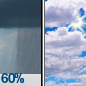
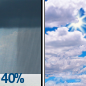
wire: 2026-10-10 RSA-1010-WIRE-111 + first sports/weather siblings

Changed region(s): [[0.0, 0.8372, 0.093, 0.9767]]

diff --git a/wire.html b/wire.html
@@ -5,16 +5,16 @@
   <meta name="viewport" content="width=device-width, initial-scale=1.0">
   <script>(function(){try{var s=localStorage.getItem('usmc-theme')||localStorage.getItem('theme');if(s!=='light')document.documentElement.setAttribute('data-theme','dark');}catch(e){}})();</script>
   <title>RESOLUTE Wire — Curated News for Citizens | U.S.M.C. Ministries</title>
-  <meta name="description" content="National and technology reporting for the Saturday morning board.">
+  <meta name="description" content="National and technology reporting for the Saturday evening board.">
   <link rel="canonical" href="https://usmcmin.com/wire.html">
   <meta property="og:site_name" content="RESOLUTE Wire">
-  <meta property="og:title" content="Pacific Command hosted Micronesia&#x27;s president at Camp Smith — RESOLUTE Wire">
-  <meta name="twitter:title" content="Pacific Command hosted Micronesia&#x27;s president at Camp Smith — RESOLUTE Wire">
-  <meta property="og:description" content="National and technology reporting for the Saturday morning board.">
+  <meta property="og:title" content="Carrier Air Wing 9 closed a 10-month combat deployment aboard Abraham Lincoln — RESOLUTE Wire">
+  <meta name="twitter:title" content="Carrier Air Wing 9 closed a 10-month combat deployment aboard Abraham Lincoln — RESOLUTE Wire">
+  <meta property="og:description" content="National and technology reporting for the Saturday evening board.">
   <meta property="og:type" content="website">
   <meta property="og:url" content="https://usmcmin.com/wire.html">
-  <meta property="og:image" content="https://usmcmin.com/assets/og/wire-dvids-10003496-pacom-fsm-smith-1200x630.jpg">
-  <meta name="twitter:image" content="https://usmcmin.com/assets/og/wire-dvids-10003496-pacom-fsm-smith-1200x630.jpg">
+  <meta property="og:image" content="https://usmcmin.com/assets/og/wire-dvids-9996294-cvw9-lincoln-f35-1200x630.jpg">
+  <meta name="twitter:image" content="https://usmcmin.com/assets/og/wire-dvids-9996294-cvw9-lincoln-f35-1200x630.jpg">
   <meta property="og:image:width" content="1200">
   <meta property="og:image:height" content="630">
   <meta name="twitter:image:width" content="1200">
@@ -134,19 +134,19 @@
     </div>
     <header class="mast" id="top">
       <h1>RESOLUTE <em>Wire</em></h1>
-      <p class="dek">National and technology reporting for the Saturday morning board.</p>
-      <div class="meta">Saturday, October 10, 2026 · AM edition · Rush Sullivan</div>
+      <p class="dek">National and technology reporting for the Saturday evening board.</p>
+      <div class="meta">Saturday, October 10, 2026 · PM edition · Rush Sullivan</div>
     </header>
     <article class="hero">
       <div class="hero-media">
-        <img src="assets/wire/dvids-10003496-pacom-fsm-smith-1000w.jpg" alt="">
-        <div class="hero-credit">Staff Sgt. Angel Heraldez · DVIDS 10003496 · Public domain · Lt. Gen. George B. Rowell hosts President Wesley W. Simina at Camp H.M. Smith, Hawaii. Photo taken Oct. 9, 2026.</div>
+        <img src="assets/wire/dvids-9996294-cvw9-lincoln-f35-1000w.jpg" alt="">
+        <div class="hero-credit">Mass Communication Specialist 3rd Class Angel Campbell · DVIDS 9996294 · Public domain · An F-35C from VMFA-314 prepares to launch from USS Abraham Lincoln in the U.S. 3rd Fleet. Photo taken Oct. 1, 2026.</div>
       </div>
       <div class="hero-body">
         <span class="chip">DVIDS</span>
-        <h2><a href="https://www.dvidshub.net/news/576768/us-pacific-command-hosts-fsm-president-regional-security-discussions" target="_blank" rel="noopener">Pacific Command hosted Micronesia&#x27;s president at Camp Smith</a></h2>
-        <p class="insight">Lt. Gen. George B. Rowell, deputy commander of U.S. Pacific Command, hosted Federated States of Micronesia President Wesley W. Simina at Camp H.M. Smith on Oct. 9. The DVIDS release says the two sides discussed maritime security, cybersecurity, and long-range threats in the Indo-Pacific, and the work of strengthening deterrence under the Compact of Free Association. No new treaty or deployment order is in the release.</p>
-        <div class="src">DVIDS · <a href="https://www.dvidshub.net/news/576768/us-pacific-command-hosts-fsm-president-regional-security-discussions" target="_blank" rel="noopener">Read source →</a></div>
+        <h2><a href="https://www.dvidshub.net/news/576750/carrier-air-wing-9-completes-10-month-combat-deployment" target="_blank" rel="noopener">Carrier Air Wing 9 closed a 10-month combat deployment aboard Abraham Lincoln</a></h2>
+        <p class="insight">DVIDS reported that Carrier Air Wing 9 concluded the deployment aboard USS Abraham Lincoln on Oct. 8, after embarking Nov. 21, 2025. The release says the wing flew 14,037 sorties and 31,460 flight hours, and that Operation Epic Fury, ordered Feb. 28, ran 38 days before an early April ceasefire. It says the wing expended 1,499 precision weapons, more than 1.37 million pounds of ordnance, against U.S. Central Command targets. Capt. J.W. Stigi, the wing commander, said the force destroyed Iran&#x27;s conventional Navy and secured maritime chokepoints. Destroyers Spruance and Michael Murphy remain underway in the 7th and 5th Fleets. The still shows an F-35C from Marine Fighter Attack Squadron 314 on the flight deck Oct. 1, while the ship was still in the 3rd Fleet.</p>
+        <div class="src">DVIDS · <a href="https://www.dvidshub.net/news/576750/carrier-air-wing-9-completes-10-month-combat-deployment" target="_blank" rel="noopener">Read source →</a></div>
       </div>
     </article>
     <section class="rails" aria-label="Channel rails">
@@ -154,17 +154,17 @@
         <h3>Political</h3>
         <article class="item no-media">
           <div>
-            <h4><a href="https://www.americanreformer.org/p/having-it-both-ways" target="_blank" rel="noopener">American Reformer says Cornell&#x27;s sex scandal is a failure of consent rules</a></h4>
-            <p>Thursday&#x27;s essay says the facts released so far, including a signed statement from the woman, describe consensual conduct, not rape. The writer argues Cornell encourages sexual liberation and then punishes students when the results become a public problem. Consent, the piece says, is too thin a rule to govern relations between young men and women. It is an argument about university policy, not a court filing.</p>
-            <div class="who">American Reformer</div>
+            <h4><a href="https://www.heritage.org/american-history/commentary/columbus-day-question-have-we-finally-stopped-distorting-our-past" target="_blank" rel="noopener">Heritage says restoring the Columbus fountain is a test of how the country treats its past</a></h4>
+            <p>Friday&#x27;s commentary points to the Christopher Columbus fountain in front of Union Station in Washington, left in disrepair, as a case of history treated as something to neglect. The writer says restoring public artwork can put life back into a culture, and that the fountain is a reminder of the country&#x27;s tie to the old world. It is a commentary on public memory, not a restoration contract.</p>
+            <div class="who">Heritage Foundation</div>
           </div>
           
         </article>
         <article class="item no-media">
           <div>
-            <h4><a href="https://lawliberty.org/the-most-american-statue-in-europe/" target="_blank" rel="noopener">Law &amp; Liberty says a forgotten Washington statue in Budapest was paid for by immigrants</a></h4>
-            <p>Friday&#x27;s essay says the George Washington statue beside a lake in Budapest&#x27;s City Park was commissioned and financed by Hungarian immigrants in the United States, not by a treaty between governments. The Paris and London statues were diplomatic gifts. This one was raised by people who had left Hungary. The writer puts the story against the current argument over immigration and assimilation, on the 250th anniversary of the country&#x27;s birth. It is an essay, not a bill.</p>
-            <div class="who">Law &amp; Liberty</div>
+            <h4><a href="https://www.americanreformer.org/p/ohio-is-a-place-not-an-idea" target="_blank" rel="noopener">American Reformer says Ohio is a place, not a slogan</a></h4>
+            <p>Friday&#x27;s essay argues that national commentary flattens Ohio into a symbol and misses the practical judgments people there actually make. The writer wants fewer generalizations and more attention to how a particular place works. It is an argument about political writing, not a campaign filing.</p>
+            <div class="who">American Reformer</div>
           </div>
           
         </article>
@@ -173,16 +173,16 @@
         <h3>Tech / AI</h3>
         <article class="item no-media">
           <div>
-            <h4><a href="https://www.defensenews.com/missile-defense/2026/10/09/pentagon-raytheon-sign-63b-deal-to-replenish-us-missile-interceptor-supply/" target="_blank" rel="noopener">The Pentagon signed a $6.3 billion deal to replenish SM-3 interceptors</a></h4>
-            <p>Defense News reported Friday that the Pentagon signed a five-year contract with Raytheon, plus two option years, for a continuous supply of Standard Missile-3 Block IB interceptors, built mainly in Tucson and Huntsville. Raytheon President Phil Jasper said the missile has been used in combat and the contract is meant to refill inventories. The Block IB is a hit-to-kill interceptor for short- and intermediate-range ballistic missiles. Navy destroyers first fired it in combat in 2024 against Iranian missiles aimed at Israel. Delivery totals are not in the story.</p>
+            <h4><a href="https://www.defensenews.com/industry/techwatch/2026/10/10/lockheed-martin-unveils-pac-3-edge-interceptor-designed-to-counter-hypersonic-threats/" target="_blank" rel="noopener">Lockheed unveiled a PAC-3 variant aimed at hypersonic threats</a></h4>
+            <p>Defense News, citing Reuters, reported Saturday that Lockheed Martin unveiled PAC-3 Edge, an interceptor meant to counter hypersonic and advanced missile threats at longer ranges and higher altitudes. The company said it adds a new seeker, upgraded flight controls, and a multi-pulse rocket motor from Northrop Grumman. Tim Cahill, president of missiles and fire control, told Reuters the cost should be about that of the existing PAC-3 MSE, and that full production would run about 2,000 a year. The Army awarded Lockheed a contract worth up to $58.6 billion in July to ramp up current PAC-3 production. This is a company unveiling, not a signed order for the new variant.</p>
             <div class="who">Defense News</div>
           </div>
           
         </article>
         <article class="item no-media">
           <div>
-            <h4><a href="https://www.dvidshub.net/image/10003371/vmfa-231-activation-ceremony" target="_blank" rel="noopener">The Marine Corps reactivated its oldest flying squadron at Cherry Point</a></h4>
-            <p>A DVIDS still from Oct. 9 shows Sgt. Maj. Ricardo L. Santos marching the colors at an activation ceremony for Marine Fighter Attack Squadron 231 at Marine Corps Air Station Cherry Point. The caption says the squadron was first commissioned in 1919, and that the ceremony marked a step in 2nd Marine Aircraft Wing&#x27;s aviation modernization. The photo is the official record posted so far. A separate news release with the aircraft type was not on the page.</p>
+            <h4><a href="https://www.dvidshub.net/news/576497/fulfilling-our-nations-promise-record-250-identifications-fiscal-year-2026" target="_blank" rel="noopener">The Defense Department identified 250 missing service members in fiscal 2026</a></h4>
+            <p>A DVIDS release from Washington says the Department of War identified 250 service members in fiscal year 2026, a record, under the accounting mission that treats no fallen comrade as left behind. The release is the official count posted this week. It does not list the individual cases.</p>
             <div class="who">DVIDS</div>
           </div>
           
@@ -192,17 +192,17 @@
         <h3>Culture</h3>
         <article class="item no-media">
           <div>
-            <h4><a href="https://firstthings.com/betting-against-your-neighbor/" target="_blank" rel="noopener">First Things says phone gambling trains a man to bet against his neighbor</a></h4>
-            <p>Joshua Topham&#x27;s Friday essay starts from a semiannual conference of The Church of Jesus Christ of Latter-day Saints, where D. Todd Christofferson said gambling is morally wrong and asked members to leave it. The piece names three markets feeding the habit: sports betting, casino-style games, and prediction markets, all now on a phone. Christofferson&#x27;s point, as Topham reads it, is not only the loss of money. It is what the habit does to how a man sees the person next to him.</p>
-            <div class="who">First Things</div>
+            <h4><a href="https://www.heritage.org/education/commentary/stop-writing-blank-checks-campuses-protect-hate" target="_blank" rel="noopener">Heritage says a $3 billion gift does not fix a campus that protects hate</a></h4>
+            <p>Friday&#x27;s commentary says Ken Griffin&#x27;s $3 billion gift to Carnegie Mellon, most of it for a new Miami campus, is the largest single gift in American higher education. The writer says cash was not the school&#x27;s problem. Nearly a month after an associate&#x27;s conduct drew public attention, the piece argues federal and donor money still flows to campuses that shelter antisemitism. It is an argument about funding conditions, not a new statute.</p>
+            <div class="who">Heritage Foundation</div>
           </div>
           
         </article>
         <article class="item no-media">
           <div>
-            <h4><a href="https://wng.org/articles/the-spirituality-of-silence-1791390725" target="_blank" rel="noopener">WORLD reviews John Mark Comer&#x27;s book on silence</a></h4>
-            <p>WORLD&#x27;s Wednesday review of Into the Quiet says Comer is doing with noise what his earlier books did with hurry: naming a cultural habit and asking Christians to step out of it. The review quotes him saying this is the first generation that can banish quiet from ordinary life. He prescribes solitude, silence, and stillness. The book is 304 pages from WaterBrook. It is a review, not a new study.</p>
-            <div class="who">WORLD News Group</div>
+            <h4><a href="https://truthscript.com/theology/the-unsupervised-woman-and-the-limits-of-reactionary-traditionalism/" target="_blank" rel="noopener">TruthScript says the fight over the unsupervised woman misses Christian vocation</a></h4>
+            <p>Thursday&#x27;s essay says the latest evangelical argument over a figure called the unsupervised woman asks the wrong question. The writer argues the dispute treats women&#x27;s work as a supervision problem and skips what Christian vocation actually requires of women and men. It is a theological argument, not a church court ruling.</p>
+            <div class="who">TruthScript</div>
           </div>
           
         </article>
@@ -218,7 +218,7 @@
     </section>
     <section class="watch">
       <h3>Watch</h3>
-      <ul><li><a href="https://news.usni.org/2026/10/09/october-sees-near-daily-strikes-on-ships-in-hormuz" target="_blank" rel="noopener">Ships in the Strait of Hormuz have been hit nearly every day this month</a> </li><li><a href="https://news.usni.org/2026/10/08/4-marines-receiving-medical-care-after-osprey-mishap" target="_blank" rel="noopener">Four Marines are receiving medical care after an Osprey mishap in North Carolina</a> </li></ul>
+      <ul><li><a href="https://news.usni.org/2026/10/09/october-sees-near-daily-strikes-on-ships-in-hormuz" target="_blank" rel="noopener">Ships in the Strait of Hormuz have been hit nearly every day this month</a> </li><li><a href="https://news.usni.org/2026/10/09/philippine-and-chinese-incidents-spike-in-south-china-sea-luzon-strait" target="_blank" rel="noopener">Philippine and Chinese incidents rose in the South China Sea and the Luzon Strait</a> </li></ul>
     </section>
     <section class="dock">
       <a href="sports.html"><div class="k">Texas desk</div><div class="t">Sports</div><div class="d">Texans, Astros, Rockets — character and the score.</div></a>

diff --git a/weather.html b/weather.html
@@ -131,7 +131,7 @@
     <header class="mast" id="top">
       <h1>RESOLUTE <em>Weather</em></h1>
       <p class="dek">Fredericksburg, Virginia — National Weather Service. Readiness, not climate talk.</p>
-      <div class="meta">Saturday, October 10, 2026 · AM edition</div>
+      <div class="meta">Saturday, October 10, 2026 · PM edition</div>
     </header>
     <article class="hero">
       <div class="hero-media">
@@ -140,16 +140,16 @@
       </div>
       <div class="hero-body">
         <span class="chip">NWS / Readiness</span>
-        <h2>No active NWS alerts on the Fredericksburg point. Mostly cloudy today, high near 71. Rain starts after 8 tonight.</h2>
-        <p class="insight">NWS lists no active alert for the Fredericksburg forecast point. Today is mostly cloudy, with a high near 71 and a northeast wind of 1 to 7 mph. Rain showers begin after 8 p.m., with a low around 60, gusts as high as 20 mph, and a half to three quarters of an inch possible. Sunday is rain, then thunderstorms, a high near 72, and 1 to 2 inches possible. Monday morning still has a chance of showers, then partly sunny, near 76.</p>
+        <h2>No active NWS alerts on the Fredericksburg point. Cloudy this afternoon, high near 70. Rain starts after 9 tonight.</h2>
+        <p class="insight">NWS lists no active alert for the Fredericksburg forecast point. This afternoon is cloudy, with a high near 70 and an east wind around 7 mph. Rain showers begin between 9 p.m. and 5 a.m., then thunderstorms, with a low around 61, gusts as high as 20 mph, and three quarters of an inch to an inch possible. Sunday is showers and thunderstorms, a high near 73, and 1 to 2 inches possible. Monday morning still has a chance of showers, then partly sunny, near 74.</p>
         <div class="src">Alerts: No watch or warning is up. · <a href="https://forecast.weather.gov/MapClick.php?lat=38.3032&amp;lon=-77.4605" target="_blank" rel="noopener">NWS forecast →</a></div>
-        <ul class="actions"><li>No active watches or warnings on the city point</li><li>Mostly cloudy today, high near 71</li><li>Rain after 8 tonight, then heavier rain Sunday</li></ul>
+        <ul class="actions"><li>No active watches or warnings on the city point</li><li>Cloudy this afternoon, high near 70</li><li>Rain after 9 tonight, then heavier rain Sunday</li></ul>
       </div>
     </article>
     <section class="watch">
       <h3>Forecast</h3>
-      <p class="src">NWS forecast issued 4:53 AM EDT, Oct. 10. Periods below are as issued for this edition · <a href="https://forecast.weather.gov/MapClick.php?lat=38.3032&amp;lon=-77.4605" target="_blank" rel="noopener">Current forecast →</a></p>
-      <div class="period"><img class="period-icon" src="assets/weather/nws-today-day-bkn.png" alt=""><div><strong>Today</strong><p class="insight">Mostly cloudy, with a high near 71. Northeast wind 1 to 7 mph.</p></div></div><div class="period"><img class="period-icon" src="assets/weather/nws-tonight-night-rain-showers.png" alt=""><div><strong>Tonight</strong><p class="insight">Rain showers after 8pm. Cloudy, with a low around 60. East wind 5 to 9 mph, with gusts as high as 20 mph. Chance of precipitation is 100%. New rainfall amounts between a half and three quarters of an inch possible.</p></div></div><div class="period"><img class="period-icon" src="assets/weather/nws-sunday-day-rain-tsra.png" alt=""><div><strong>Sunday</strong><p class="insight">Rain showers before 2pm, then showers and thunderstorms. Cloudy, with a high near 72. East wind 7 to 13 mph, with gusts as high as 23 mph. Chance of precipitation is 100%. New rainfall amounts between 1 and 2 inches possible.</p></div></div><div class="period"><img class="period-icon" src="assets/weather/nws-sunday-night-night-tsra.png" alt=""><div><strong>Sunday Night</strong><p class="insight">Showers and thunderstorms likely. Mostly cloudy, with a low around 63. Southwest wind around 6 mph. Chance of precipitation is 70%. New rainfall amounts between a quarter and half of an inch possible.</p></div></div><div class="period"><img class="period-icon" src="assets/weather/nws-columbus-day-day-rain-bkn.png" alt=""><div><strong>Columbus Day</strong><p class="insight">Rain showers likely before 8am. Partly sunny, with a high near 76. Northwest wind 5 to 12 mph, with gusts as high as 22 mph. Chance of precipitation is 60%.</p></div></div><div class="period"><img class="period-icon" src="assets/weather/nws-monday-night-night-few.png" alt=""><div><strong>Monday Night</strong><p class="insight">Mostly clear, with a low around 58.</p></div></div>
+      <p class="src">NWS forecast issued 2:23 PM EDT, Oct. 10. Periods below are as issued for this edition · <a href="https://forecast.weather.gov/MapClick.php?lat=38.3032&amp;lon=-77.4605" target="_blank" rel="noopener">Current forecast →</a></p>
+      <div class="period"><img class="period-icon" src="assets/weather/nws-this-afternoon-day-ovc.png" alt=""><div><strong>This Afternoon</strong><p class="insight">Cloudy, with a high near 70. East wind around 7 mph.</p></div></div><div class="period"><img class="period-icon" src="assets/weather/nws-tonight-night-rain-tsra.png" alt=""><div><strong>Tonight</strong><p class="insight">Rain showers between 9pm and 5am, then showers and thunderstorms. Cloudy, with a low around 61. East wind 5 to 9 mph, with gusts as high as 20 mph. Chance of precipitation is 90%. New rainfall amounts between three quarters and one inch possible.</p></div></div><div class="period"><img class="period-icon" src="assets/weather/nws-sunday-day-tsra.png" alt=""><div><strong>Sunday</strong><p class="insight">Showers and thunderstorms before 5pm, then a chance of showers and thunderstorms. Cloudy, with a high near 73. East wind 6 to 12 mph, with gusts as high as 22 mph. Chance of precipitation is 100%. New rainfall amounts between 1 and 2 inches possible.</p></div></div><div class="period"><img class="period-icon" src="assets/weather/nws-sunday-night-night-tsra.png" alt=""><div><strong>Sunday Night</strong><p class="insight">Showers and thunderstorms. Mostly cloudy, with a low around 64. West wind 2 to 6 mph. Chance of precipitation is 90%. New rainfall amounts between a quarter and half of an inch possible.</p></div></div><div class="period"><img class="period-icon" src="assets/weather/nws-columbus-day-day-rain-bkn.png" alt=""><div><strong>Columbus Day</strong><p class="insight">A chance of rain showers before 8am. Partly sunny, with a high near 74. Northwest wind 7 to 13 mph, with gusts as high as 22 mph. Chance of precipitation is 40%.</p></div></div><div class="period"><img class="period-icon" src="assets/weather/nws-monday-night-night-few.png" alt=""><div><strong>Monday Night</strong><p class="insight">Mostly clear, with a low around 58.</p></div></div>
       
     </section>
     <section class="dock">

diff --git a/sports.html b/sports.html
@@ -131,7 +131,7 @@
     <header class="mast" id="top">
       <h1>RESOLUTE <em>Sports</em></h1>
       <p class="dek">Texas desk — Texans, Astros, Rockets. Character and the score, not celebrity.</p>
-      <div class="meta">Saturday, October 10, 2026 · AM edition</div>
+      <div class="meta">Saturday, October 10, 2026 · PM edition</div>
     </header>
     <article class="hero">
       <div class="hero-media">
@@ -150,7 +150,7 @@
         <article class="item">
           <div>
             <h4><a href="https://www.houstontexans.com/schedule/" target="_blank" rel="noopener">Texans are on the road Sunday at Tennessee, noon Central</a></h4>
-            <p>The Houston Texans schedule lists Sunday, Oct. 11, as an away game at the Tennessee Titans, Nissan Stadium in Nashville, noon Central, on CBS. The next listed date is Sunday, Oct. 18, at Jacksonville in London, 8:30 a.m. Central. The club page does not print a final for the Oct. 4 home game against Dallas.</p>
+            <p>The Houston Texans schedule lists Sunday, Oct. 11, as an away game at the Tennessee Titans, Nissan Stadium in Nashville, noon Central, on CBS. The next listed date is Sunday, Oct. 18, at Jacksonville in London, 8:30 a.m. Central. Kickoff has not happened. No final is on the club page.</p>
             <div class="who">Houston Texans</div>
           </div>
           <div class="thumb"><img src="assets/sports/nrg-reliant-interior.jpg" alt=""></div>
@@ -158,15 +158,15 @@
         <article class="item">
           <div>
             <h4><a href="https://www.mlb.com/news/5-questions-facing-astros-in-2026-offseason" target="_blank" rel="noopener">Astros still have no general manager as Espada&#x27;s contract runs out this month</a></h4>
-            <p>MLB.com reports the club parted ways with general manager Dana Brown on Aug. 24. Assistant general managers Charles Cook, Gavin Dickey, and Connor Huff, with senior advisor Jeff Bagwell, have carried the work, and owner Jim Crane is overseeing baseball operations. Nearly a week after the White Sox eliminated Houston in two games in the American League Wild Card Series, MLB.com says the search is unchanged. Manager Joe Espada&#x27;s contract expires at the end of October. He said last week he would like to return. No decision is posted.</p>
+            <p>MLB.com reports the club parted ways with general manager Dana Brown on Aug. 24. Assistant general managers Charles Cook, Gavin Dickey, and Connor Huff, with senior advisor Jeff Bagwell, have carried the work, and owner Jim Crane is overseeing baseball operations. Nearly a week after the White Sox eliminated Houston in two games in the American League Wild Card Series, MLB.com says the search is unchanged. The club won the AL West at 81-81. Manager Joe Espada&#x27;s contract expires at the end of October. He said last week he would like to return. No decision is posted.</p>
             <div class="who">MLB.com</div>
           </div>
           <div class="thumb"><img src="assets/sports/daikin-minute-maid-2010.jpg" alt=""></div>
         </article>
         <article class="item">
           <div>
-            <h4><a href="https://www.nba.com/rockets/game/0012600012-rockets-vs-mavericks-macao-china-10-09-2026/event-details" target="_blank" rel="noopener">Rockets&#x27; Friday game in Macao is marked Final; the club page does not print a score</a></h4>
-            <p>The Rockets&#x27; game page for Friday, Oct. 9, against the Dallas Mavericks in Macao lists the game status as Final. The page does not print a score in the readable text. The club still lists a second preseason game in Macao on Sunday, Oct. 11. Rosters for opening day are set Oct. 19 at 5 p.m. Eastern. The regular season starts Oct. 20.</p>
+            <h4><a href="https://www.nba.com/game/0012600012/box-score" target="_blank" rel="noopener">Rockets play Dallas again in Macao on Sunday</a></h4>
+            <p>The NBA.com box score page for Friday, Oct. 9, lists Houston against Dallas in Macao as a preseason game at 8 a.m. Eastern. The page title confirms the matchup and the date. The readable text does not print a final score, so none is stated here. The club still lists a second preseason game in Macao on Sunday, Oct. 11. Rosters for opening day are set Oct. 19 at 5 p.m. Eastern. The regular season starts Oct. 20.</p>
             <div class="who">NBA.com</div>
           </div>
           <div class="thumb"><img src="assets/sports/toyota-center-interior.jpg" alt=""></div>
